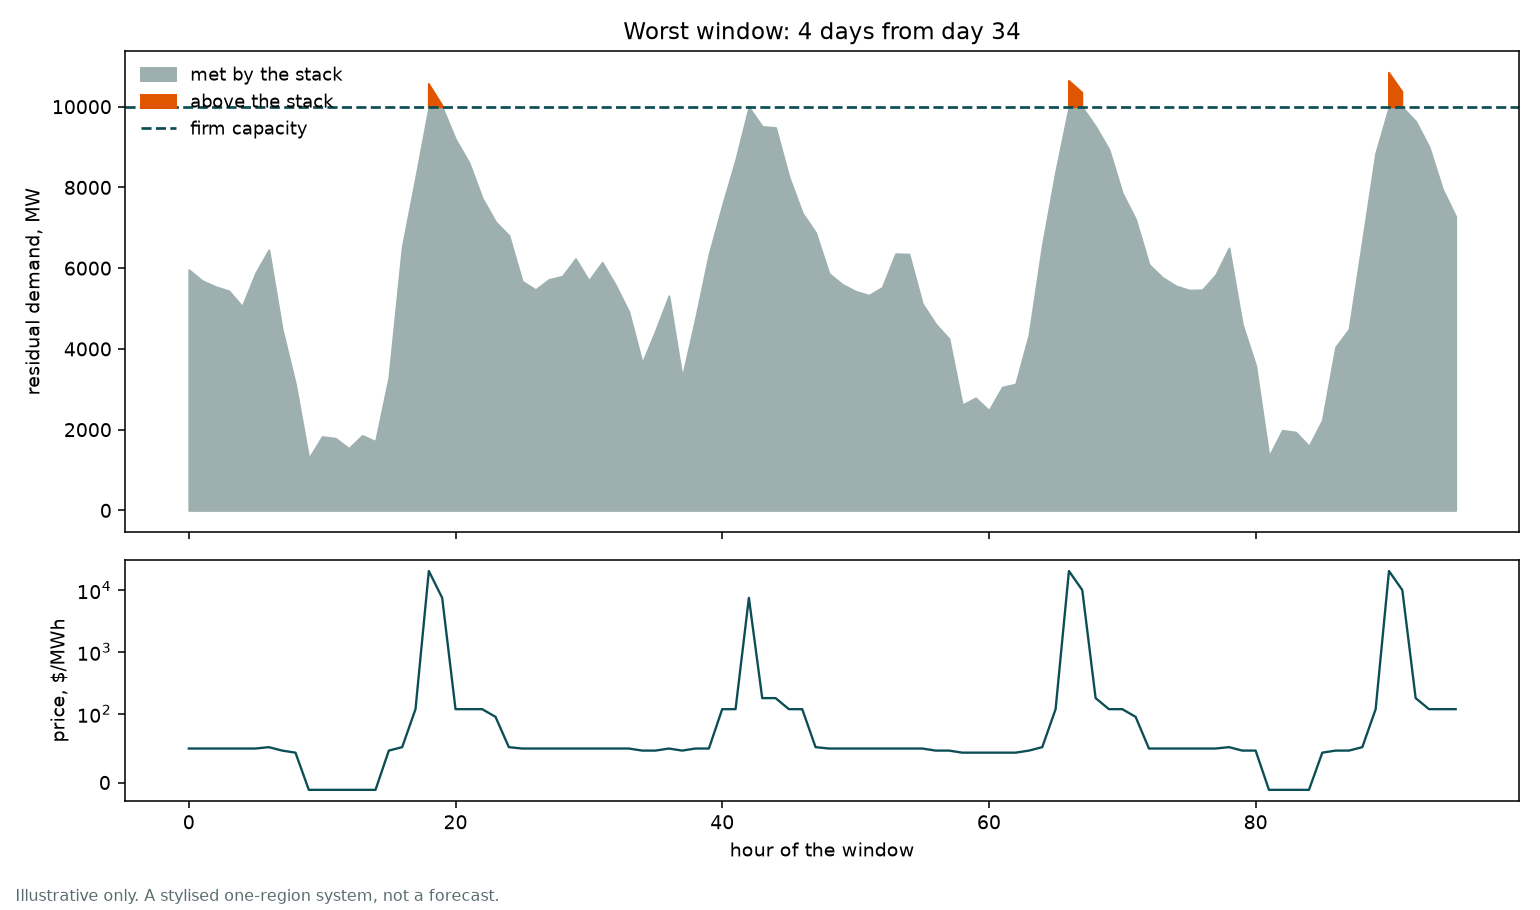
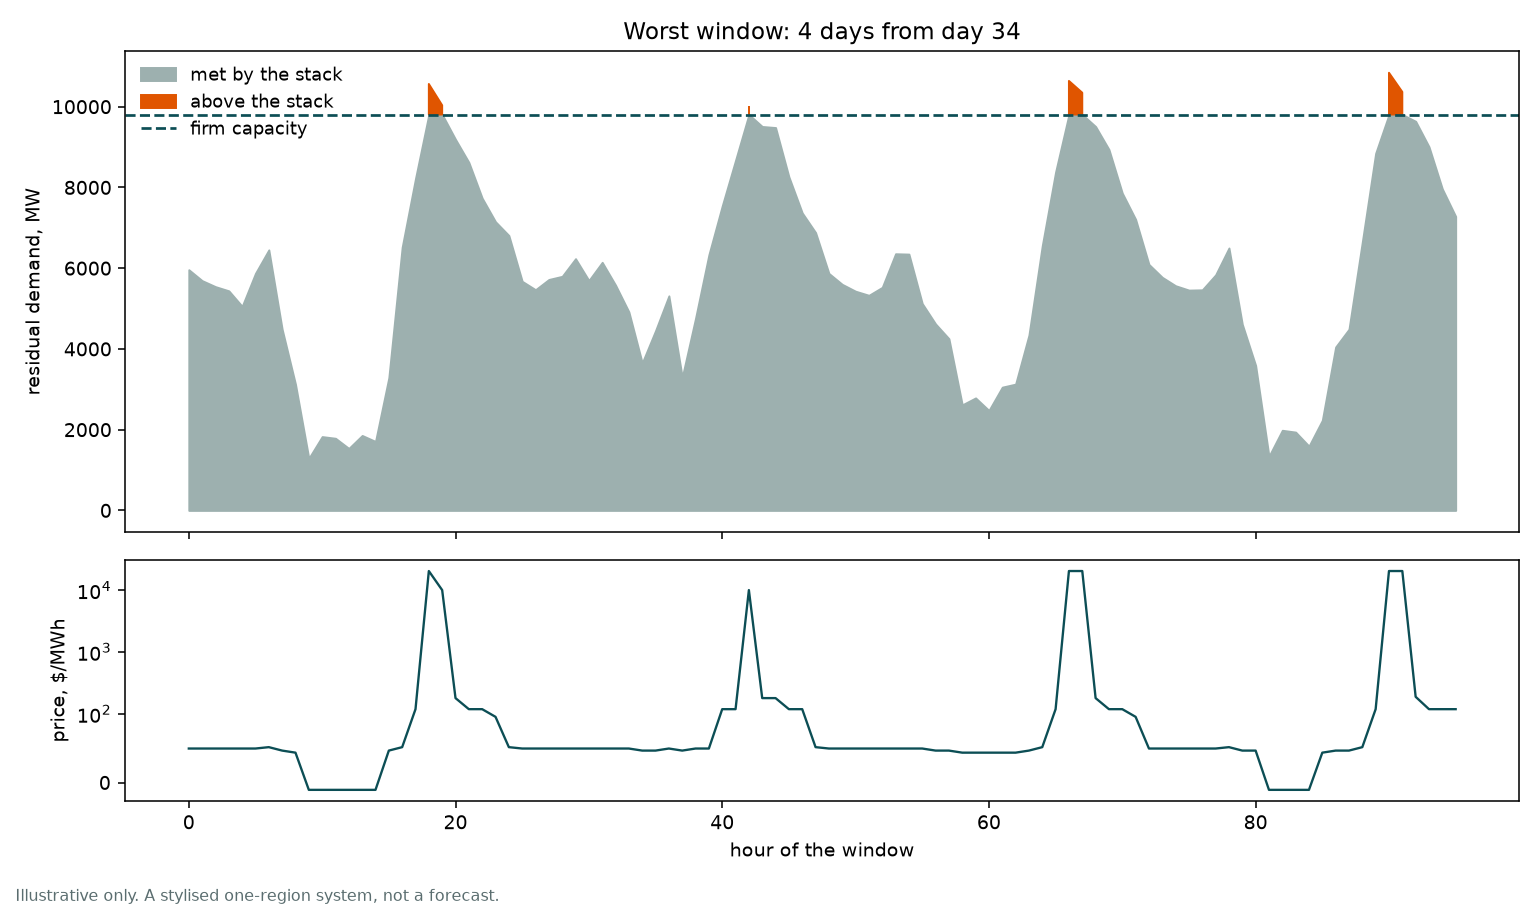
Reliability standard 0.003 per cent, and the fleet recalibrated to keep the contrast
Markus's ruling: use the Reliability Panel's recommended 0.003 per cent rather than
the 0.002 per cent in force, for the whole horizon.

Applying it alone would have quietly destroyed what the model is for. At 0.003 per
cent no shape-year breached, including the lull-on-heat year, so the contrast the
workshop is built on disappeared and the test pinning it failed. The standard is a
published figure and not ours to bend, so the stylised system was retightened
instead, using the lever the design nominates for it: the import link's coincidence
derate, 2200 MW to 2000 MW.

The mild years now sit at about a third of the standard and the drought year at
about 1.4 times it, which is a clearer separation than before. The test now asserts
the gap as well as the direction, so a small data change cannot invert which year is
the short one without failing, and it names the derate as the thing to re-calibrate
if the standard changes again.

Canonical outputs regenerated.

diff --git a/tests/test_dispatch.py b/tests/test_dispatch.py
@@ -140,9 +140,24 @@ def test_prices_sit_between_the_floor_and_the_cap(settings, bundle):
 
 def test_the_drought_year_is_the_one_that_breaches_the_standard(settings, bundle):
     """The lull-on-heat year is short and the mild years are not. This is the
-    whole point of locating droughts rather than declaring them."""
-    fractions = [_year(settings, bundle, y).unserved_fraction
-                 for y in range(settings.weather["shape_years"])]
+    whole point of locating droughts rather than declaring them, and it is the
+    contrast the workshop is built on, so it is pinned rather than left to chance.
+
+    The system's tightness is set by the import link's coincidence derate in
+    fleet.csv. If the reliability standard changes, that derate is what must be
+    re-calibrated to keep this contrast, not this assertion.
+    """
+    fractions = sorted(_year(settings, bundle, y).unserved_fraction
+                       for y in range(settings.weather["shape_years"]))
     standard = settings.reliability["standard_use_fraction"]
-    assert max(fractions) > standard
-    assert sorted(fractions)[len(fractions) // 2] < standard
+    worst, next_worst = fractions[-1], fractions[-2]
+    assert worst > standard, (
+        f"the drought year should breach: {worst:.5%} against {standard:.5%}"
+    )
+    assert next_worst < standard, (
+        f"only the drought year should breach: {next_worst:.5%} against {standard:.5%}"
+    )
+    assert worst > 2 * next_worst, (
+        "the contrast should be clear, not marginal, so a small data change cannot "
+        "quietly invert which year is the short one"
+    )

diff --git a/DATA_SOURCES.md b/DATA_SOURCES.md
@@ -61,8 +61,8 @@ published as a sum of five-minute trading interval prices; this model settles ho
 and divides it by twelve accordingly. The standard is period-dependent: 0.002 per
 cent of unserved energy. The Reliability Panel's 2026 Reliability Standard and
 Settings Review final report of 23 April 2026 recommends 0.003 per cent for the
-period 1 July 2028 to 30 June 2032. This model holds the in-force figure for a
-whole run rather than stepping it.
+period 1 July 2028 to 30 June 2032. This model uses the recommended 0.003 per cent
+for a whole run rather than stepping it at 2028.
 
 ## The files
 
